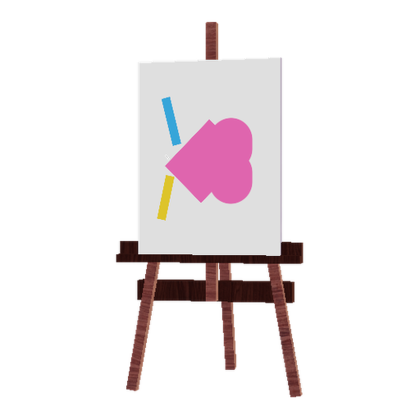
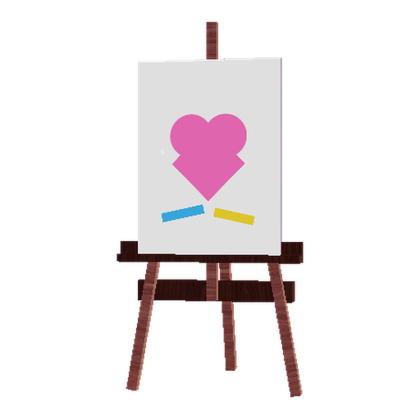
เพิ่มไอเทมใหม่: ปืนกลชมพู + ปืนเวทฟองขัง [แกล้ง]
- 💗 ปืนกลชมพู: ออโต้ ~16 นัด/วิ · ยิงโดนสะสม 50 นัด = หลงรักเดินตามคนยิง 10 วิ
- ✨ ปืนเวทฟองขัง: ขังในฟองน้ำลอยฟ้า 2.5 วิ แล้วแตกเปียกโชก
- รายละเอียดจาก WaterGunConfig/WaterGunServer · ได้จากแอดมินแจก / โค้ด · ไอเทม 190 → 192
- อัพเดทรูปกระดานวาดรูปตามไอคอนใหม่ในเกม
- bump service worker v20 → v21

diff --git a/json/item.js b/json/item.js
@@ -440,6 +440,22 @@ export const itemall = [
         "getby": "แอดมินแจก / โค้ด",
     },
     {
+        "code": "WaterGunTec",
+        "nameTH": "💗 ปืนกลชมพู — ยิงจนตัวชมพู หลงรักเดินตาม",
+        "icon": "/images/items/WaterGunTec.png",
+        "detail": "ยิงออโต้ราว 16 นัด/วิ ถังจุ 60 นัด ระยะ 80 ช่อง · น้ำแตกกระเซ็นและดันคนโดนถอยต่อเนื่อง · โดนติดกัน 10 นัดใน 1.5 วิ = กระเด็นลอย · ยิงโดนสะสมจนตัวคนโดนชมพูเต็ม (50 นัด) = 💘 หลงรักคนยิง เดินตามเองนาน 10 วิ มีสายใยหัวใจโยงหา · คนโดนสะบัดตัวล้างสีชมพูได้ก่อนเต็ม · หายหลงรักแล้วกันโดนซ้ำ 15 วิ · ของแกล้ง ไม่ทำดาเมจ · ยิงไม่ได้ในโซนห้ามแกล้งและลานบอส",
+        "grouptype": "แกล้ง",
+        "getby": "แอดมินแจก / โค้ด",
+    },
+    {
+        "code": "WaterGunMagic",
+        "nameTH": "✨ ปืนเวทฟองขัง — ขังในฟองน้ำลอยฟ้า",
+        "icon": "/images/items/WaterGunMagic.png",
+        "detail": "ลูกเวทพุ่งตรงไม่ตก ระยะ 80 ช่อง · โดนแล้วถูกขังในฟองน้ำลอยขึ้นฟ้า 2.5 วิ แล้วแตกเปียกโชกทั้งจอ · ถังจุ 3 ลูก ยิงหมดรอเติม 7 วิ · ของแกล้ง ไม่ทำดาเมจ · ยิงไม่ได้ในโซนห้ามแกล้งและลานบอส",
+        "grouptype": "แกล้ง",
+        "getby": "แอดมินแจก / โค้ด",
+    },
+    {
         "code": "BananaPeel",
         "nameTH": "เปลือกกล้วย",
         "icon": "/images/items/BananaPeel.png",

diff --git a/public/sw.js b/public/sw.js
@@ -1,7 +1,7 @@
 // Sweet Paradise Hub — service worker (network-first หน้าเว็บ, cache-first ของ static)
 //  ⚠ ขยับเลขเวอร์ชันทุกครั้งที่เมนู/โครงหน้าเปลี่ยน
 //     activate จะลบแคชชื่อเก่าทิ้งให้เอง = เครื่องที่ติดตั้ง PWA ไว้ได้ของใหม่ทันทีรอบถัดไป
-const CACHE = "sp-hub-v20";
+const CACHE = "sp-hub-v21";
 const CORE = ["/", "/manifest.webmanifest", "/icons/icon-192.png", "/icons/icon-512.png"];
 
 self.addEventListener("install", (event) => {
